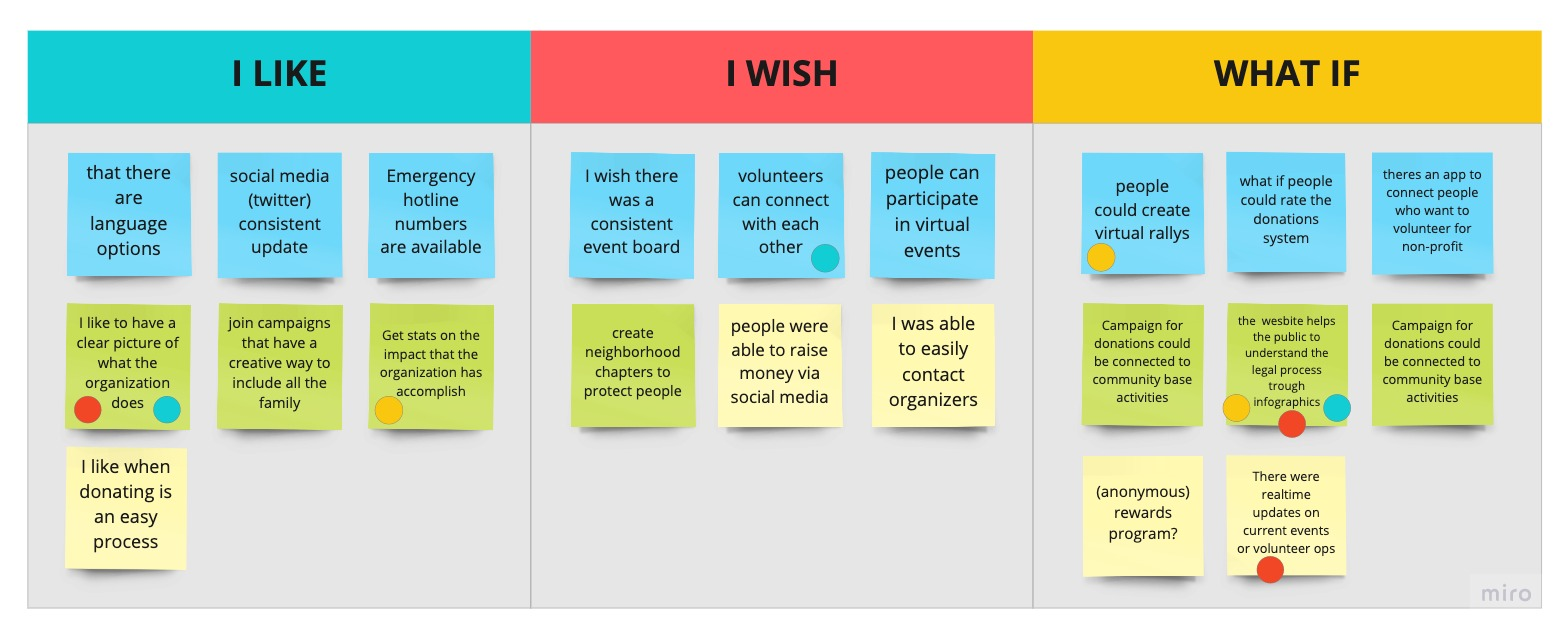
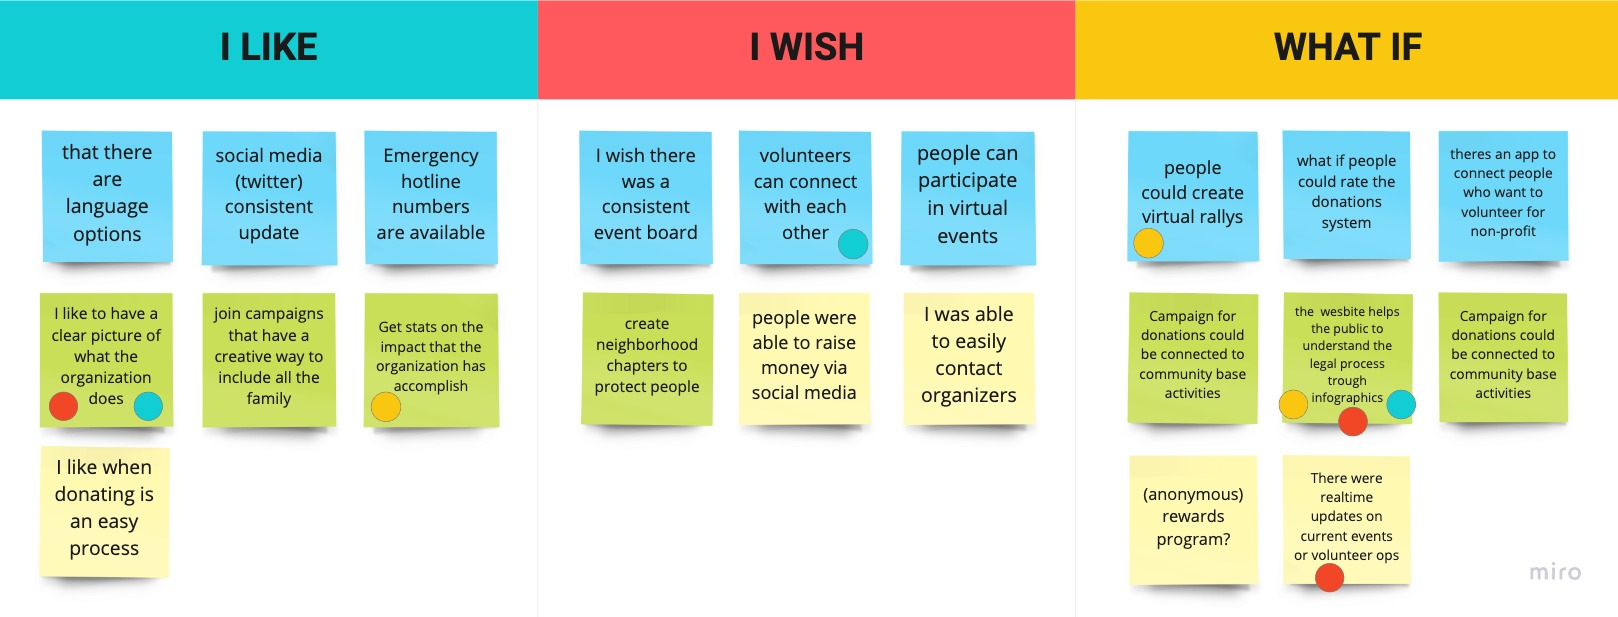
full width image styles

diff --git a/mywork-project-NewSanctuaryCoalition.html b/mywork-project-NewSanctuaryCoalition.html
@@ -113,7 +113,7 @@
         <Section class="project-empathise" id="project-research">
             <div class="section-intro">
                 <figure class="index-method">
-                    <img src="./images/Research.svg" alt="red circle with icon of research"/>
+                    <img src="./images/empathy.svg" alt="red circle with icon of research"/>
                 </figure>
                 <h3>Emphathise</h3>
                 <div class="intro-txt">
@@ -173,7 +173,7 @@
         <Section class="project-define" id="project-define">
             <div class="section-intro">
                 <figure class="index-method">
-                    <img src="./images/Research.svg" alt="red circle with icon of research"/>
+                    <img src="./images/define.svg" alt="red circle with icon of research"/>
                 </figure>
                 <h3>Define</h3>
                 <div class="intro-txt">
@@ -187,19 +187,22 @@
             </div>
            
             <div class="row fullwidth-img">
-                    <div class="txt-inline">
-                        <h4>Affinity Diagram</h4>
-                        <p class="category">From the data colected during interviews and trough our survey, we were able to narrow down our direction to focusing on evolving/updating volunteer opportunities and donation preferences. 
+                <h4>Affinity Diagram</h4>
+                <img src="./images/Affinity-Diagram.jpg" alt="">
+                <div class="txt-line">
+                    <div class="left">
+                        <p class="category"> From the data colected during interviews and trough our survey, we were able to narrow down our direction to focusing on evolving/updating volunteer opportunities and donation preferences. 
                         </p>
                     </div>
-                    <img src="./images/Affinity Diagram.jpg" alt="">
-            </div>
-            
-            <div class="row row fullwidth-img">
-                <div class="txt-inline">
-                    <h4>User Persona</h4>
                 </div>
+                <h4>User Persona</h4>
                 <img src="./images/NSCUser-Persona.png" alt="">
+                <div class="txt-line">
+                    <div class="left">
+                        <p class="category"> From the data colected during interviews and trough our survey, we were able to narrow down our direction to focusing on evolving/updating volunteer opportunities and donation preferences. 
+                        </p>
+                    </div>
+                </div> 
             </div>
             
             <div class="row">
@@ -218,7 +221,7 @@
         <Section class="project-ideate" id="project-ideate">
             <div class="section-intro">
                 <figure class="index-method">
-                    <img src="./images/Research.svg" alt="red circle with icon of research"/>
+                    <img src="./images/Ideation.svg" alt="red circle with icon of research"/>
                 </figure>
                 <h3>Ideate</h3>
                 <div class="intro-txt">
@@ -238,7 +241,7 @@
                         <p class="category">From the data colected during interviews and trough our survey, we were able to narrow down our direction to focusing on evolving/updating volunteer opportunities and donation preferences. 
                         </p>
                     </div>
-                    <img src="../NSC-likewishwhatif.jpg" alt="">
+                    <img src="./images/NSC-likewishwhatif.jpg" alt="">
                 </div>
             </div>
             

diff --git a/CSS/style.css b/CSS/style.css
@@ -842,6 +842,7 @@ ul.pagination li a:hover{
     border-radius: 30px;
 }
 
+/* intro section */
 .section-intro{
     margin-bottom: 50px;
     display: flex;
@@ -880,6 +881,10 @@ ul.pagination li a:hover{
     margin-top: 10px;
     margin-right: 10px;
 }
+
+/* end intro section */
+
+/* quote stile*/
 
 .project-empathise .user-research{
     margin: 25px 0px;
@@ -929,49 +934,68 @@ width: 40%;
     line-height: 1.8em;
 }
 
+/* end quote style*/
+
+
+
 .project-define{
     display: block;
     padding: 50px;    
 }
 
+/* img fullwidth style*/
+
 .fullwidth-img{
     flex-direction: column;
 }
 
-.txt-inline{
-    display: flex;
-    align-items: center;
+.txt-line{
+    display: flex; 
+    justify-content: flex-end;
+    width: 100%;
+     
 }
 
-.txt-line h4{
-    flex-basis: 50%;
+.txt-line .left{
+    flex-basis: 60%;
+    align-self: flex-start; 
+    margin: 0px 20px 20px 0px;
+
+}
+
+.fullwidth-img h4{
+    margin: 0px 0px 15px 20px;
 }
 
 .txt-line p{
-    flex-basis: 60%; 
+    margin-top: 1.2em;
 }
 
 .fullwidth-img img{
-
-    
+    margin-top: 0px;
+   
 }
+
+/* txt fullwidth style*/
 
 .row .txt{
    
     padding: 20px 100px;
+    border-top: 8px solid #ffffff;
+    border-radius:  4px;
+    border-width: content;
 
 }
 
-.row .txt h4{
-    font-size: 20px;
-
-}
 
 .row .txt p{
-    font-size: 20px;
+    font-size: 28px;
     text-align: Left;
+    color: #383838;
 
 }
+
+/* End txt fullwidth style*/
 
 
 
